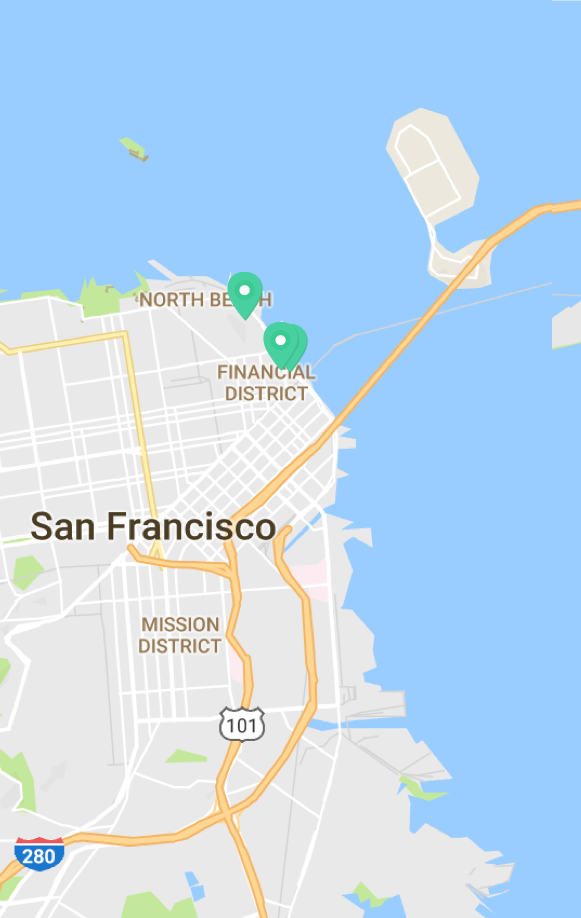
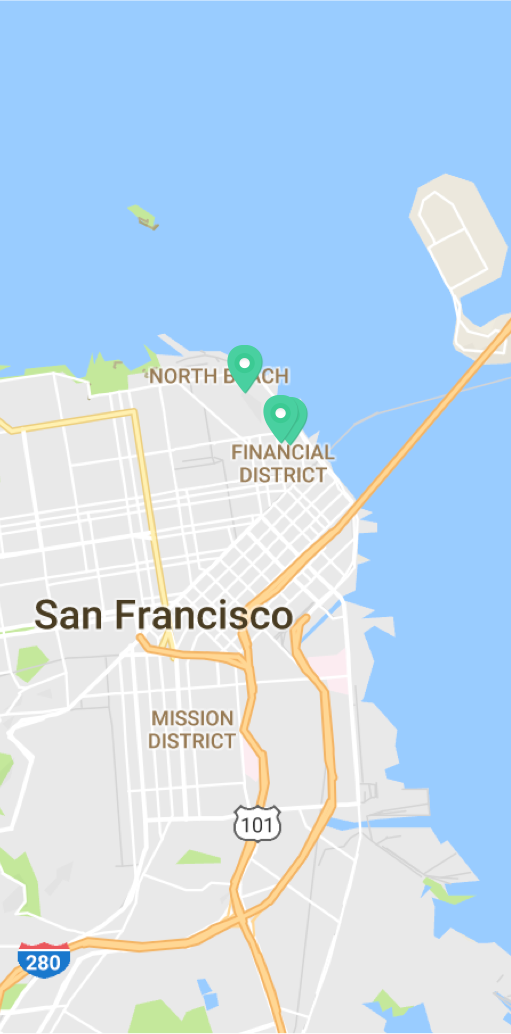
adds white button

diff --git a/src/Map.jsx b/src/Map.jsx
@@ -1,9 +1,24 @@
 import React, { Component } from "react";
-import map from "./map.png";
+import map from "./Map.png";
+import sideArrow from "./side-arrow.png";
 
 export default function Map({ className }) {
   return (
-    <div className={className}>
+    <div className={className} style={{ position: "relative" }}>
+      <button
+        style={{
+          height: 60,
+          position: "absolute",
+          top: 20,
+          bordeRadius: 2,
+          borderStyle: "none",
+          backgroundColor: "white",
+          width: 45,
+          borderRadius: 2
+        }}
+      >
+        <img src={sideArrow} />
+      </button>
       <img src={map} style={{ width: "100%" }} />
     </div>
   );

diff --git a/src/App.js b/src/App.js
@@ -44,7 +44,6 @@ class App extends Component {
           />
           <Map className="side-map" />
         </div>
-        <Footer style={{ display: "flex" }} />
       </div>
     );
   }

diff --git a/src/index.css b/src/index.css
@@ -153,7 +153,6 @@ input {
 }
 .side-map {
   width: 50%;
-  padding-top: 20px;
 }
 
 .map2 {
